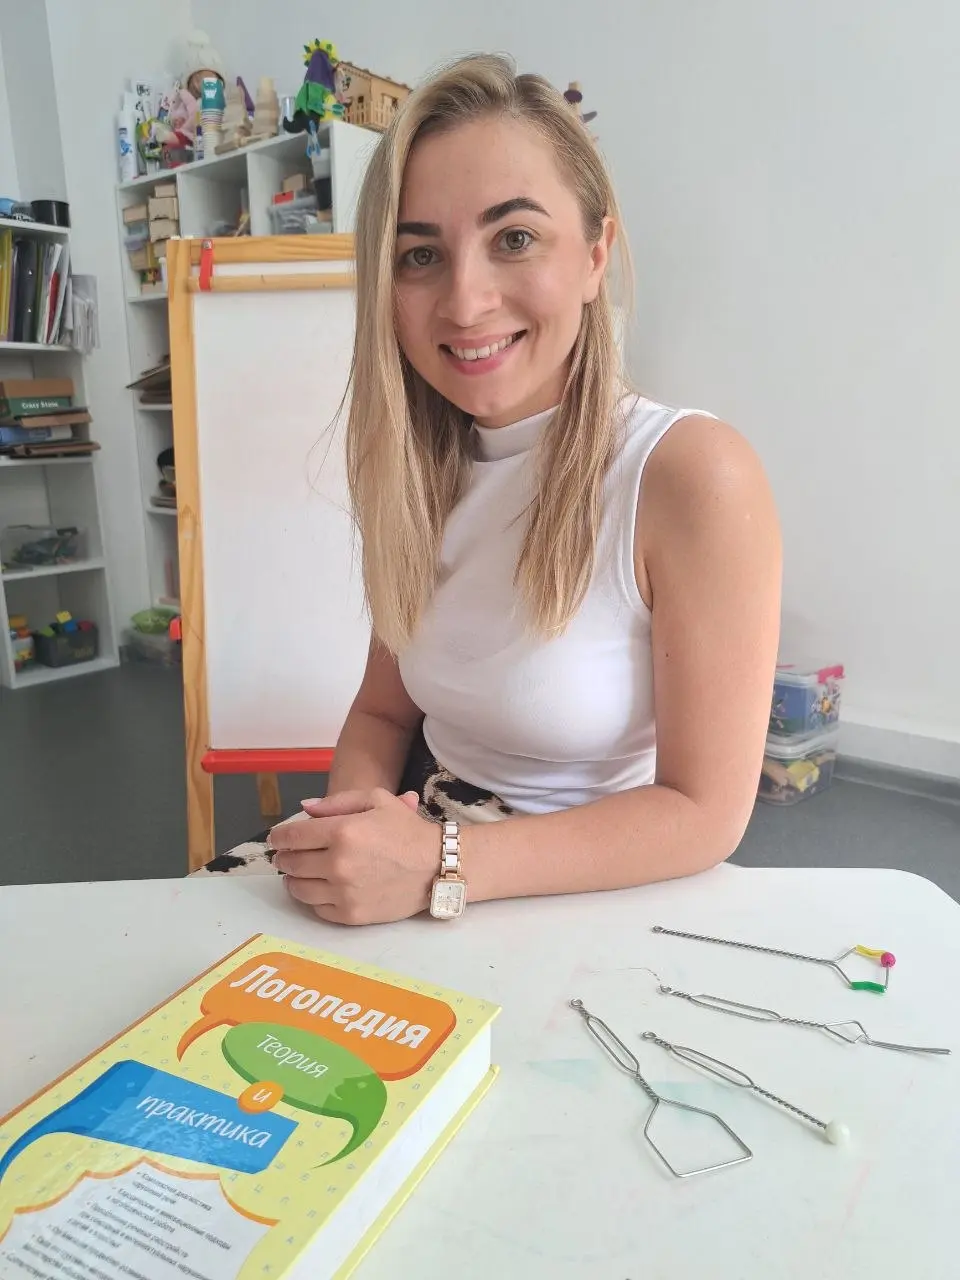
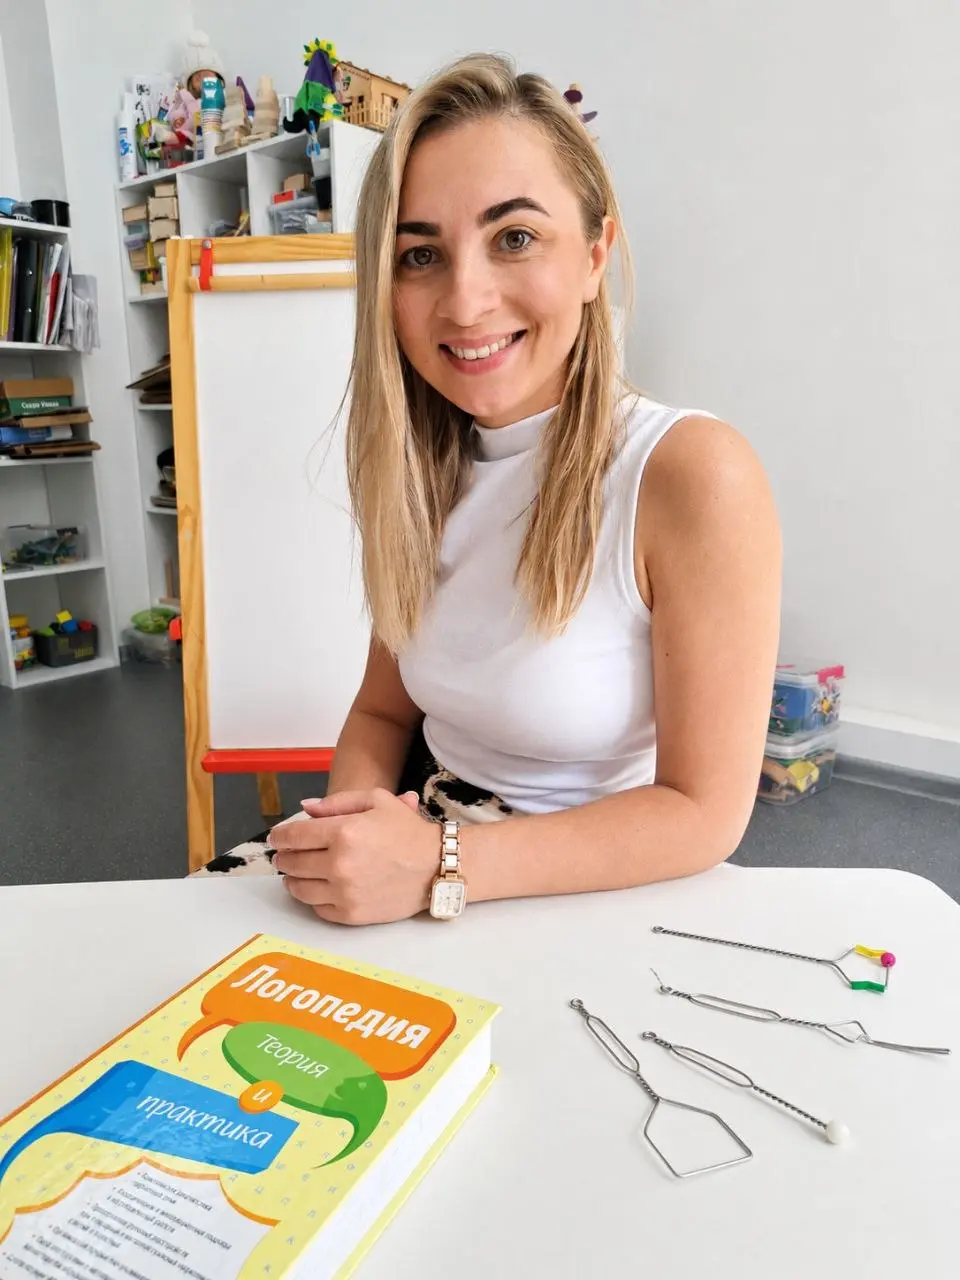
final

diff --git a/style.css b/style.css
@@ -625,9 +625,13 @@ textarea {
 .badge-dot {
 	width: 8px;
 	height: 8px;
-	background: #4ade80;
+	background: var(--color-primary);
 	border-radius: 50%;
 	animation: pulse-dot 2s ease-in-out infinite;
+}
+
+.badge-dot.closed {
+	background: var(--color-accent);
 }
 
 @keyframes pulse-dot {
@@ -1204,12 +1208,13 @@ textarea {
 .slider-wrap {
 	position: relative;
 	padding-inline: 0;
+	width: 100%;
 }
 
 .slider {
 	width: 100%;
 	max-width: 100%;
-	overflow: hidden; /* Жестко скрывает соседние слайды */
+	overflow: hidden; /* Скрывает соседние слайды */
 	border-radius: var(--radius-xl, 12px);
 	position: relative;
 	box-sizing: border-box;
@@ -1223,27 +1228,34 @@ textarea {
 	box-sizing: border-box;
 }
 
+/* Фикс ширины слайдов для мобильных */
 .slide {
-	max-width: 600px;
-	cursor: pointer;
+	width: 100%;
 	min-width: 100%;
-	flex-shrink: 0;
+	max-width: 100%;
+	flex: 0 0 100%;
+	box-sizing: border-box;
+	height: 480px; /* Фиксированная высота слайдера на десктопе */
+	cursor: pointer;
+	overflow: hidden;
 }
 
 .slide img {
 	width: 100%;
 	height: 100%;
-	object-fit: cover;
+	object-fit: cover; /* Обрезает фото по центру без искажений пропорций */
+	object-position: center;
 	display: block;
 }
 
+/* Модификатор для дипломов/сертификатов (если нужно видеть целиком) */
 .slide-2 {
+	width: 100%;
 	min-width: 100%;
 	max-width: 100%;
 	flex: 0 0 100%;
 	box-sizing: border-box;
-
-	height: 480px; /* Высота под мобильные */
+	height: 480px;
 	display: flex;
 	align-items: center;
 	justify-content: center;
@@ -1254,31 +1266,35 @@ textarea {
 .slide-2 img {
 	width: 100%;
 	height: 100%;
-	/* 
-     contain — показывает весь сертификат целиком без обрезки edges.
-     Если хотите, чтобы не было полей по бокам/сверху — замените на cover.
-  */
-	object-fit: contain;
+	object-fit: cover; /* Если хотите обрезку без полей, осталяем cover */
+	object-position: center;
 	display: block;
 	pointer-events: auto;
 }
 
-/* Ограничение высоты слайдера на планшетах и мобильных */
+/* Адаптивная высота под планшеты и мобильные устройства */
 @media (max-width: 1023px) {
+	.slide,
 	.slide-2 {
-		height: 360px; /* Уменьшаем высоту на планшетах */
+		height: 360px; /* Оптимальная высота на планшетах */
 	}
 }
 
 @media (max-width: 576px) {
+	.slide,
 	.slide-2 {
 		height: 280px; /* Компактная высота на смартфонах */
+	}
+
+	/* Спрячем боковые стрелки на мобильных, оставим только свайпы и точки */
+	.slider-btn {
+		display: none;
 	}
 }
 
 .slide-placeholder {
 	width: 100%;
-	height: 480px;
+	height: 100%;
 	display: flex;
 	flex-direction: column;
 	align-items: center;
@@ -1306,18 +1322,18 @@ textarea {
 	position: absolute;
 	top: 50%;
 	transform: translateY(-50%);
-	width: 52px;
-	height: 52px;
+	width: 48px;
+	height: 48px;
 	border-radius: 50%;
-	background: var(--color-surface);
-	box-shadow: var(--shadow-md);
+	background: var(--color-surface, #fff);
+	box-shadow: var(--shadow-md, 0 4px 12px rgba(0, 0, 0, 0.1));
 	display: flex;
 	align-items: center;
 	justify-content: center;
 	color: var(--color-secondary);
 	z-index: 10;
-	transition: var(--transition-base);
-	border: 2px solid var(--color-border);
+	transition: var(--transition-base, all 0.2s ease);
+	border: 1px solid var(--color-border, #e2e8f0);
 }
 
 .slider-btn:hover {
@@ -1325,36 +1341,35 @@ textarea {
 	color: #fff;
 	border-color: var(--color-primary);
 	transform: translateY(-50%) scale(1.08);
-	box-shadow: var(--shadow-card);
 }
 
 .slider-btn--prev {
-	left: -26px;
+	left: 12px;
 }
 .slider-btn--next {
-	right: -26px;
+	right: 12px;
 }
 
 /* Точки-пагинация */
 .slider-dots {
 	display: flex;
 	justify-content: center;
-	gap: var(--sp-sm);
-	margin-top: var(--sp-xl);
+	gap: var(--sp-sm, 8px);
+	margin-top: var(--sp-md, 16px);
 }
 
 .slider-dot {
 	width: 10px;
 	height: 10px;
 	border-radius: 50%;
-	background: var(--color-border);
+	background: var(--color-border, #cbd5e1);
 	cursor: pointer;
-	transition: var(--transition-base);
+	transition: var(--transition-base, all 0.2s ease);
 	border: none;
 }
 
 .slider-dot.active {
-	background: var(--color-primary);
+	background: var(--color-primary, #0d9488);
 	transform: scale(1.3);
 	box-shadow: 0 0 0 3px rgba(13, 148, 136, 0.2);
 }

diff --git a/app.js b/app.js
@@ -218,6 +218,7 @@
 			const total = slides.length;
 			let currentIndex = 0;
 			let autoplayTimer = null;
+			let pauseTimeout = null;
 			let isDragging = false;
 			let dragOffset = 0;
 
@@ -228,7 +229,10 @@
 					const dot = document.createElement("button");
 					dot.className = "slider-dot" + (i === 0 ? " active" : "");
 					dot.setAttribute("aria-label", `Слайд ${i + 1}`);
-					dot.addEventListener("click", () => goTo(i));
+					dot.addEventListener("click", () => {
+						pauseAutoplayTemporary();
+						goTo(i);
+					});
 					dotsWrap.appendChild(dot);
 				});
 			}
@@ -242,7 +246,6 @@
 				dots.forEach((d, i) =>
 					d.classList.toggle("active", i === currentIndex),
 				);
-				resetAutoplay();
 			}
 
 			function goNext() {
@@ -253,24 +256,44 @@
 			}
 
 			/* Кнопки навигации */
-			nextBtn?.addEventListener("click", goNext);
-			prevBtn?.addEventListener("click", goPrev);
+			nextBtn?.addEventListener("click", () => {
+				pauseAutoplayTemporary();
+				goNext();
+			});
+			prevBtn?.addEventListener("click", () => {
+				pauseAutoplayTemporary();
+				goPrev();
+			});
 
-			/* Автопрокрутка */
+			/* Автопрокрутка и пауза при взаимодействии */
 			function startAutoplay() {
+				stopAutoplay();
 				autoplayTimer = setInterval(goNext, 4500);
 			}
 
-			function resetAutoplay() {
-				clearInterval(autoplayTimer);
-				startAutoplay();
+			function stopAutoplay() {
+				if (autoplayTimer) {
+					clearInterval(autoplayTimer);
+					autoplayTimer = null;
+				}
+			}
+
+			// Пауза на 10 секунд при клике / свайпе / таче
+			function pauseAutoplayTemporary() {
+				stopAutoplay();
+				if (pauseTimeout) clearTimeout(pauseTimeout);
+				pauseTimeout = setTimeout(() => {
+					startAutoplay();
+				}, 10000); // 10000 мс = 10 секунд
 			}
 
 			startAutoplay();
 
-			/* Пауза при наведении */
-			wrap.addEventListener("mouseenter", () => clearInterval(autoplayTimer));
-			wrap.addEventListener("mouseleave", startAutoplay);
+			/* Пауза при наведении мыши (для десктопа) */
+			wrap.addEventListener("mouseenter", stopAutoplay);
+			wrap.addEventListener("mouseleave", () => {
+				if (!pauseTimeout) startAutoplay();
+			});
 
 			/* Клик по слайду -> Полноэкранный просмотр */
 			slides.forEach((slide) => {
@@ -278,7 +301,6 @@
 				if (!img) return;
 
 				slide.addEventListener("click", () => {
-					// Открываем модальное окно только если не происходил свайп
 					if (Math.abs(dragOffset) < 10) {
 						openLightbox(img.src);
 					}
@@ -288,14 +310,15 @@
 			/* Touch / Swipe поддержка */
 			let startX = 0;
 			let startY = 0;
-			const SWIPE_THRESHOLD = 50;
+			const SWIPE_THRESHOLD = 40;
 
 			track.addEventListener(
 				"touchstart",
 				(e) => {
+					pauseAutoplayTemporary();
 					startX = e.changedTouches[0].clientX;
 					startY = e.changedTouches[0].clientY;
-					dragOffset = 0; // Сбрасываем смещение в начале касания
+					dragOffset = 0;
 					isDragging = true;
 				},
 				{ passive: true },
@@ -306,7 +329,7 @@
 				(e) => {
 					if (!isDragging) return;
 					const currentX = e.changedTouches[0].clientX;
-					dragOffset = currentX - startX; // Фиксируем движение пальца
+					dragOffset = currentX - startX;
 				},
 				{ passive: true },
 			);
@@ -334,6 +357,7 @@
 
 			/* Drag (Мышь) */
 			track.addEventListener("mousedown", (e) => {
+				pauseAutoplayTemporary();
 				startX = e.clientX;
 				dragOffset = 0;
 				isDragging = true;

diff --git a/index.html b/index.html
@@ -245,6 +245,7 @@
 					<div class="hero-badge fade-in-up">
 						<span class="badge-dot"></span>
 						Новосибирск · Запись открыта
+						<!-- Новосибирск · Запись закрыта -->
 					</div>
 
 					<h1 class="hero-title fade-in-up" style="animation-delay: 0.15s">
@@ -759,7 +760,7 @@
 							<div class="step-body">
 								<h3 class="step-title">Регулярная терапия</h3>
 								<p class="step-text">
-									2–3 занятия в неделю. Еженедельные отчёты родителям.
+									2–3 занятия в неделю. Ежемесячные отчёты родителям.
 									Корректировка плана по динамике.
 								</p>
 							</div>
@@ -810,6 +811,24 @@
 								<div class="slide">
 									<img
 										src="./images/2-4.webp"
+										alt="фото кабинета"
+										loading="lazy" />
+								</div>
+								<div class="slide">
+									<img
+										src="./images/2-5.webp"
+										alt="фото кабинета"
+										loading="lazy" />
+								</div>
+								<div class="slide">
+									<img
+										src="./images/2-6.webp"
+										alt="фото кабинета"
+										loading="lazy" />
+								</div>
+								<div class="slide">
+									<img
+										src="./images/2-7.webp"
 										alt="фото кабинета"
 										loading="lazy" />
 								</div>
